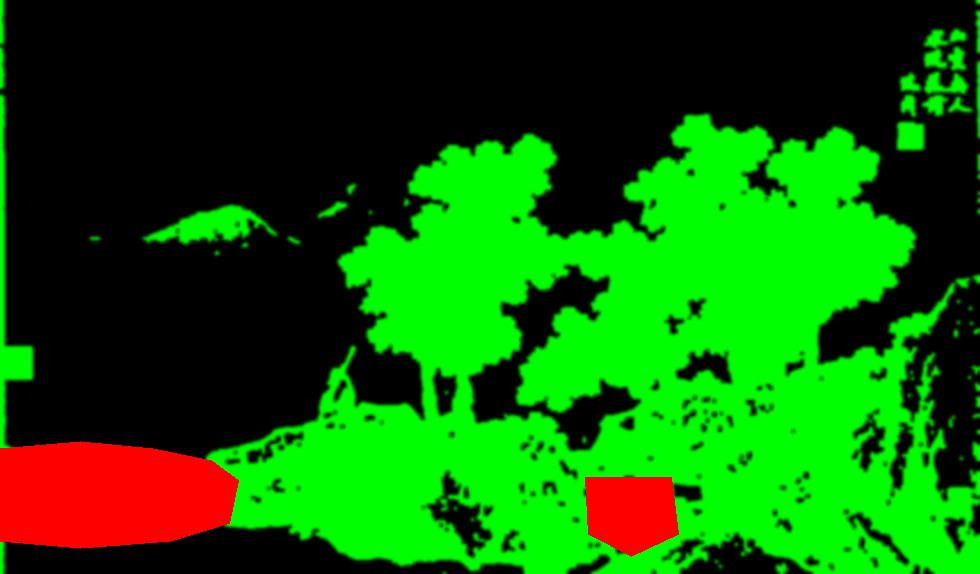
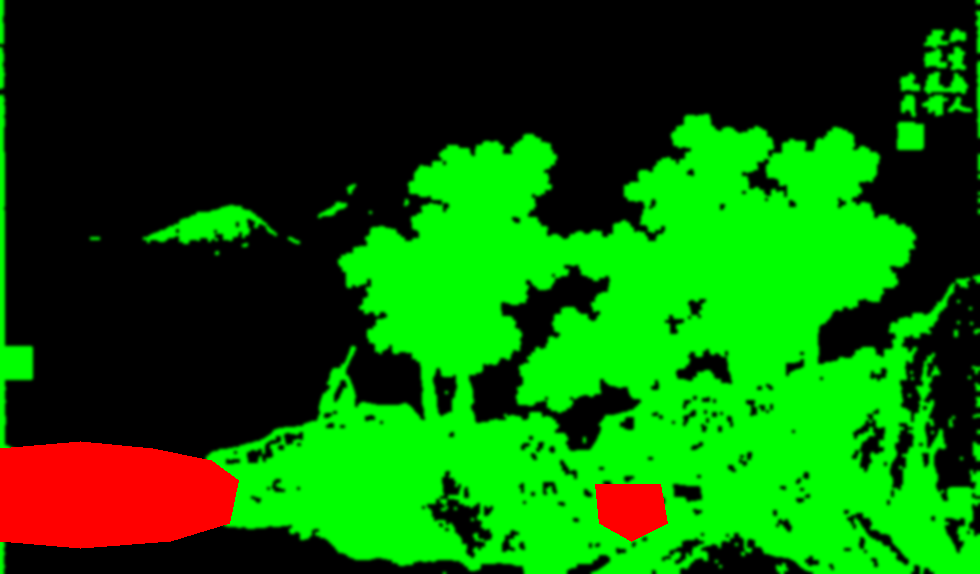
释文卡关闭键修复 + 落花诗意图四项体验升级
- 关闭键：父容器 catch 触摸后子元素 tap 不再合成，改挂自身 touchend
- 花瓣改沿树冠顶线生成，不再高过树梢
- 桥下水面掩膜收窄到桥墩之间
- 新增游鱼：墨色鱼影贴水缓游，掩膜约束在水内，偶起涟漪（geo.FISH）
- 云气分远雾/中霭/近岚三层，尺寸疏密速度各异（通用，总量不变）
- 新增积雪：沿树冠顶/坡沿/桥面的受雪线渐积软白点，
  雪停缓融（geo.SNOWLINES，避开掩膜罩染的假边问题）

Changed region(s): [[0.5816, 0.8293, 0.7041, 0.9774]]

diff --git a/miniprogram/core/engine.js b/miniprogram/core/engine.js
@@ -200,10 +200,20 @@ class Engine {
     this.smoke = g.CHIMNEYS.map(ch => ({ u: ch[0], v: ch[1], lamp: ch[2], ps: [] }));
     this.flocks = []; this.birdTimer = 2;
     this.puffs = [];
-    // 云气颗数随画幅宽度走，短卷不至于雾成一团（千里江山 AU=7486 时约 54 颗，与旧值一致）
-    const puffN = Math.max(6, Math.round(this.AU / 140));
-    for (let i = 0; i < puffN; i++) this.puffs.push({ u: Math.random() * this.AU, dv: -16 + Math.random() * 52, sc: 0.6 + Math.random() * 1.5, sp: 0.25 + Math.random() * 0.85, a: 0.55 + Math.random() * 0.6 });
+    // 云气分三层：远雾贴山脊、中霭、近岚（大而淡、飘得快），各自的尺寸疏密不同
+    // 总数与旧版持平（千里江山约 53 颗），短卷保底 18 颗
+    const puffN = Math.max(18, Math.round(this.AU / 140));
+    for (let i = 0; i < puffN; i++) {
+      const band = i % 3, r = Math.random();
+      this.puffs.push({ u: Math.random() * this.AU, band,
+        dv: band === 0 ? -20 + r * 30 : band === 1 ? 5 + r * 40 : 30 + r * 42,
+        sc: band === 0 ? 0.6 + r * 1.0 : band === 1 ? 1.4 + r * 1.2 : 2.4 + r * 1.6,
+        sp: (0.25 + Math.random() * 0.85) * (band === 2 ? 1.5 : band === 1 ? 1 : 0.7),
+        a: (0.55 + Math.random() * 0.6) * (band === 0 ? 1.2 : band === 1 ? 0.85 : 0.5) });
+    }
     this.petals = []; this.petalCarry = 0;
+    this.fish = []; this.fishInit = false;
+    this.snowAcc = 0; this.initSnowDots();
     this.rings = []; this.splashes = []; this.splashCarry = 0;
     this.drops = [];
     this.walkers = [];
@@ -578,7 +588,7 @@ class Engine {
       const x = this.SX(p.u);
       if (x < -260 || x > this.stageW + 260) continue;
       const y = this.SY(this.horizonAt(p.u) + p.dv);
-      const w = this.PX(30 * p.sc), h = this.PX(9 * p.sc);
+      const w = this.PX(30 * p.sc), h = this.PX(9 * p.sc) * (p.band === 2 ? 0.7 : 1);
       c.globalAlpha = amt * p.a * 0.085;
       c.drawImage(this.SP_PUFF, x - w / 2, y - h / 2, w, h);
     }
@@ -714,6 +724,80 @@ class Engine {
       }
     } else this.flashA = 0;
   }
+  /* ===== 游鱼（geo.FISH 配置才启用）=====
+     墨色鱼影贴水缓游，掩膜约束在水面内，偶尔近水面荡开一圈涟漪 */
+  drawFish(c, dt) {
+    const F = this.geo.FISH; if (!F || !this.maskOK) return;
+    if (!this.fishInit) {
+      this.fishInit = true;
+      const n = F.n || 4;
+      for (let i = 0; i < n * 220 && this.fish.length < n; i++) {
+        const u = Math.random() * this.AU, v = Math.random() * this.AV;
+        if (this.waterAt(u, v) > 0.75) this.fish.push({ u, v,
+          ang: Math.random() * 6.28, sp: 2.6 + Math.random() * 2.6,
+          ph: Math.random() * 6.28, turnT: 2 + Math.random() * 3,
+          ringT: 4 + Math.random() * 9 });
+      }
+    }
+    const ink = this.G.ink;
+    for (const f of this.fish) {
+      f.ph += dt * (3 + f.sp); f.turnT -= dt; f.ringT -= dt;
+      if (f.turnT <= 0) { f.ang += (Math.random() - 0.5) * 1.3; f.turnT = 2 + Math.random() * 4; }
+      const nu = f.u + Math.cos(f.ang) * f.sp * dt, nv = f.v + Math.sin(f.ang) * f.sp * dt * 0.45;
+      if (this.waterAt(nu, nv) > 0.5) { f.u = nu; f.v = nv; }
+      else f.ang += Math.PI * (0.7 + Math.random() * 0.6);
+      const x = this.SX(f.u), y = this.SY(f.v);
+      if (x < -30 || x > this.stageW + 30 || y < -30 || y > this.stageH + 30) continue;
+      if (f.ringT <= 0) { f.ringT = 5 + Math.random() * 10; this.addRing(f.u, f.v, 0.3); }
+      const depth = Math.max(0, Math.min(1, (f.v - 120) / 190));
+      const s = this.PX(0.85) * (0.65 + depth * 0.55);
+      const a = 0.34;
+      c.save(); c.translate(x, y);
+      c.rotate(Math.atan2(Math.sin(f.ang) * 0.45, Math.cos(f.ang)));
+      c.fillStyle = 'rgba(' + (ink[0] | 0) + ',' + (ink[1] | 0) + ',' + (ink[2] | 0) + ',' + a + ')';
+      c.beginPath(); c.ellipse(0, 0, s * 2.1, s * 0.75, 0, 0, 6.2832); c.fill();
+      const tw = Math.sin(f.ph) * s * 0.9;   // 尾鳍摆动
+      c.beginPath(); c.moveTo(-s * 1.8, 0);
+      c.quadraticCurveTo(-s * 2.9, tw * 0.4, -s * 3.4, tw);
+      c.quadraticCurveTo(-s * 2.8, tw * 0.6, -s * 1.8, 0);
+      c.fill();
+      c.restore();
+    }
+  }
+
+  /* ===== 积雪（geo.SNOWLINES 配置才启用）=====
+     不用掩膜罩染（放大有假边），而是沿"受雪面"折线撒确定性的软白点：
+     树冠顶、坡沿、桥面。下雪时随 snowAcc 渐渐积起，雪停后缓慢消融。 */
+  initSnowDots() {
+    const lines = this.geo.SNOWLINES;
+    this.snowDots = null;
+    if (!lines || !lines.length) return;
+    const dots = [];
+    const hash = i => { const s = Math.sin(i * 127.1 + 311.7) * 43758.5453; return s - Math.floor(s); };
+    lines.forEach((ln, li) => {
+      const u0 = ln[0][0], u1 = ln[ln.length - 1][0];
+      let idx = 0;
+      for (let u = u0; u <= u1; u += 2.5, idx++) {
+        const h1 = hash(idx * 7 + li * 131), h2 = hash(idx * 13 + li * 197), h3 = hash(idx * 29 + li * 89);
+        dots.push({ u: u + (h1 - 0.5) * 1.8, v: this.interpAt(ln, u) + (h2 - 0.5) * 2.2,
+          r: 0.55 + h3 * 0.95, a: 0.45 + h1 * 0.55 });
+      }
+    });
+    this.snowDots = dots;
+  }
+  drawSnowCover(c) {
+    if (!this.snowDots || this.snowAcc < 0.02) return;
+    const acc = this.snowAcc;
+    for (const d of this.snowDots) {
+      const x = this.SX(d.u);
+      if (x < -20 || x > this.stageW + 20) continue;
+      const y = this.SY(d.v), r = this.PX(d.r) * (0.6 + acc * 0.4);
+      c.globalAlpha = acc * d.a * 0.5;
+      c.drawImage(this.SP_PUFF, x - r, y - r, r * 2, r * 2);
+    }
+    c.globalAlpha = 1;
+  }
+
   /* ===== 落花瓣（geo.PETALS 配置才启用）=====
      spawn:[u0,v0,w,h] 生瓣区（树冠带），rate 每秒颗数，col 花瓣色；
      落到 GROUND 折线下方即着地淡出，落进水面起一圈涟漪。 */
@@ -732,11 +816,18 @@ class Engine {
     this.petalCarry += dt * (P.rate || 2);
     while (this.petalCarry >= 1) {
       this.petalCarry -= 1;
-      const [u0, v0, w, h] = P.spawn;
-      // 在生瓣带与可视范围的交集里取样，屏内密度不随取景位置变化
+      // 在生瓣带与可视范围的交集里取样，屏内密度不随取景位置变化；
+      // 有树冠顶线（P.top）时沿线取样，花只从冠内飘出，不高过树
+      const u0 = P.top ? P.top[0][0] : P.spawn[0];
+      const u1 = P.top ? P.top[P.top.length - 1][0] : P.spawn[0] + P.spawn[2];
       const lo = Math.max(u0, (this.S.x - 60) / this.DW * this.AU);
-      const hi = Math.min(u0 + w, (this.S.x + this.stageW + 60) / this.DW * this.AU);
-      if (hi > lo) this.spawnPetal(lo + Math.random() * (hi - lo), v0 + Math.random() * h, false);
+      const hi = Math.min(u1, (this.S.x + this.stageW + 60) / this.DW * this.AU);
+      if (hi > lo) {
+        const uu = lo + Math.random() * (hi - lo);
+        const vv = P.top ? this.interpAt(P.top, uu) + 2 + Math.random() * (P.depth || 42)
+          : P.spawn[1] + Math.random() * P.spawn[3];
+        this.spawnPetal(uu, vv, false);
+      }
     }
     const col = P.col || [233, 160, 170];
     const dim = 0.35 + this.G.bri * 0.65;
@@ -862,6 +953,9 @@ class Engine {
     this.windNow *= 1 + this.WX.precip * 0.9;
 
     this.SN = this.seasonNow(); this.WX = this.weather();
+    // 积雪：下雪时渐积（约半分钟成型），雪停缓融
+    const snowing = S.mode === 2 ? this.WX.precip : 0;
+    this.snowAcc = clamp01(this.snowAcc + (snowing > 0.05 ? dt / 28 * snowing : -dt / 40));
 
     if (S.todAuto) S.tod = (S.tod + dt / 150) % 1;
     if (S.tour && !S.drag) {
@@ -895,12 +989,14 @@ class Engine {
     this.drawPlate(c);
     this.drawPrecipFar(c, dt);
     this.drawGlints(c, dt);
+    this.drawFish(c, dt);
     this.drawRings(c, dt);
     this.drawSplashes(c, dt);
     this.drawFalls(c);
     this.drawBoats(c, dt);
     this.drawSmoke(c, dt);
     this.drawWalkers(c, dt);
+    this.drawSnowCover(c);
     this.drawBirds(c, dt);
     this.drawMist(c, dt);
     this.drawPetals(c, dt);

diff --git a/miniprogram/data/luohua-geo.js b/miniprogram/data/luohua-geo.js
@@ -22,8 +22,18 @@ const BASE = { mist: 1, sat: 1, boatFrac: 0, birdN: 4, birdSp: 26 };
 const GROUND = [[0, 250], [128, 248], [150, 232], [200, 226], [262, 226], [300, 238],
   [326, 250], [360, 258], [420, 236], [470, 208], [520, 196], [546, 192]];
 
-/* 落花瓣：树冠带生瓣 */
-const PETALS = { spawn: [140, 55, 395, 130], rate: 1.5, col: [233, 160, 170] };
+/* 树冠顶线：花瓣只从冠内飘出，不高过树 */
+const CROWNTOP = [[140, 142], [180, 112], [210, 92], [250, 76], [300, 62], [340, 70],
+  [380, 58], [420, 68], [460, 92], [500, 128], [546, 150]];
+
+/* 落花瓣：沿树冠顶线取样，往冠内 42 单位深处生瓣 */
+const PETALS = { top: CROWNTOP, depth: 42, rate: 1.5, col: [233, 160, 170] };
+
+/* 游鱼：溪滩与桥下各有墨影 */
+const FISH = { n: 4 };
+
+/* 积雪线：树冠顶、坡沿、桥面 */
+const SNOWLINES = [CROWNTOP, GROUND, [[314, 254], [336, 248], [362, 247], [386, 252]]];
 
 const POIS = [
   { u: 190, v: 210, t: '扶杖老人',
@@ -39,5 +49,5 @@ const POIS = [
 ];
 
 module.exports = { AU, AV, NT, ART_W, ART_H, HORIZON, LANES, BASE, CHIMNEYS, WALKS,
-  NBRIDGE, FALLS, POIS, TOD, GROUND, PETALS,
+  NBRIDGE, FALLS, POIS, TOD, GROUND, PETALS, FISH, SNOWLINES,
   HAS_HI: false, ZOOMS: [1, 1.6, 2.4], BG: '#cdc4ac' };
